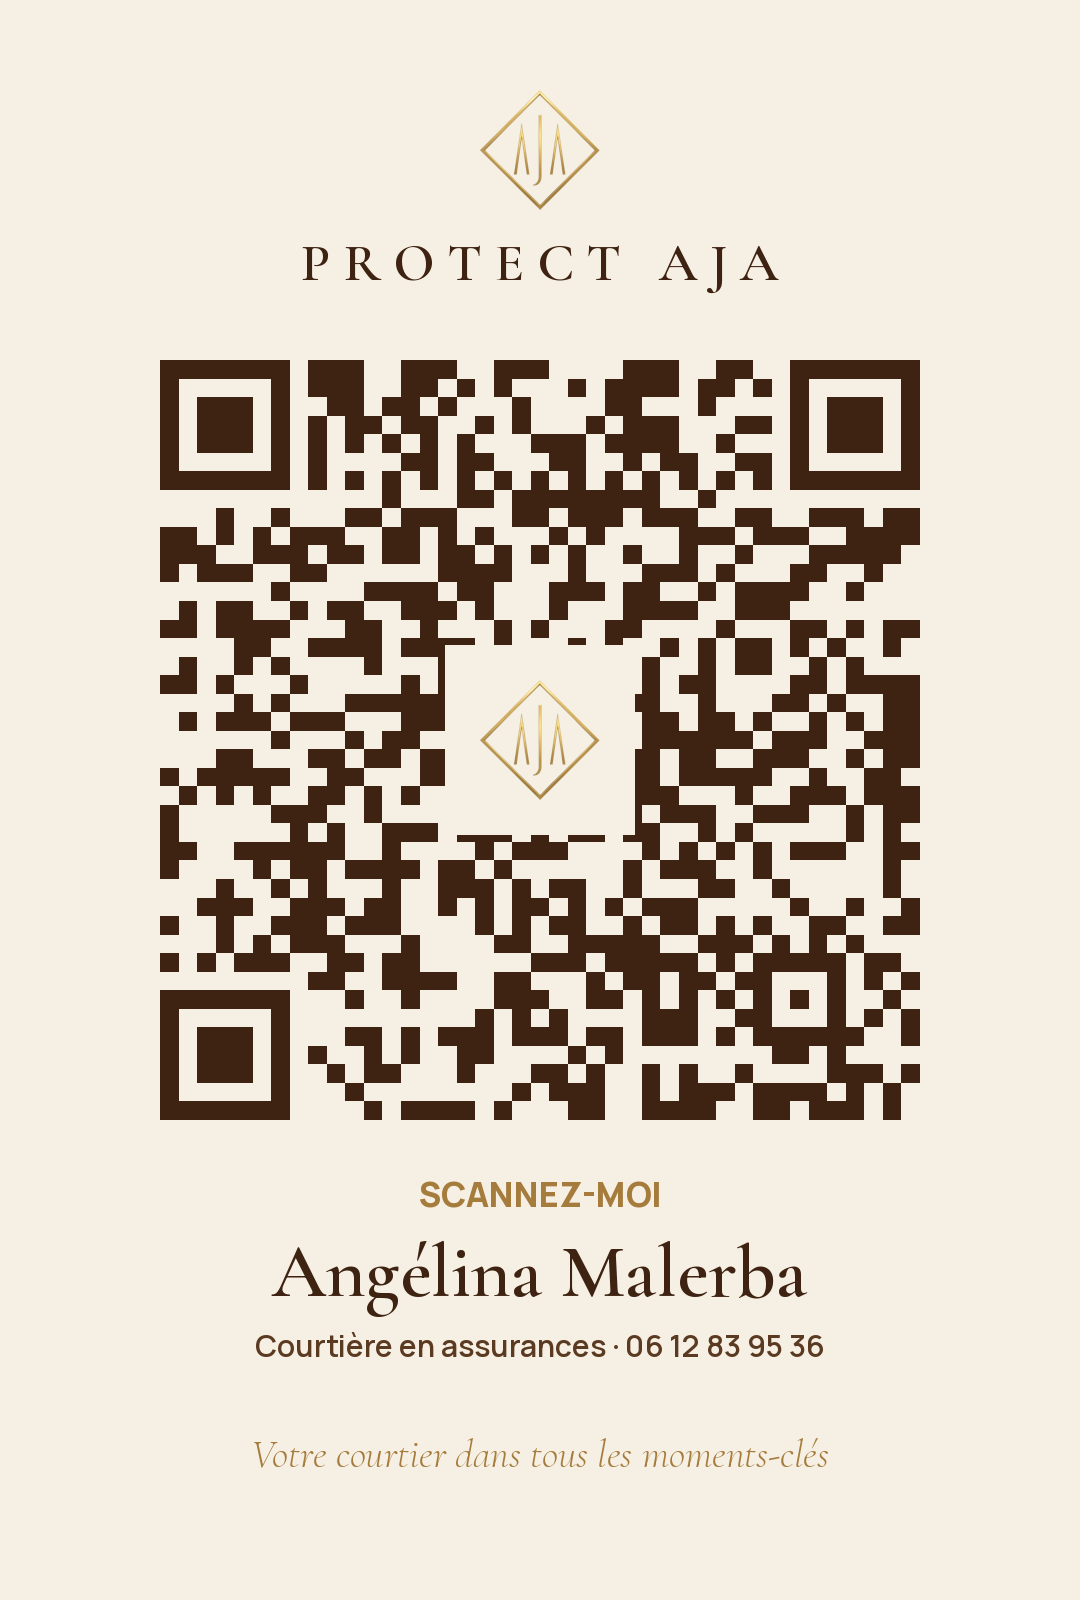
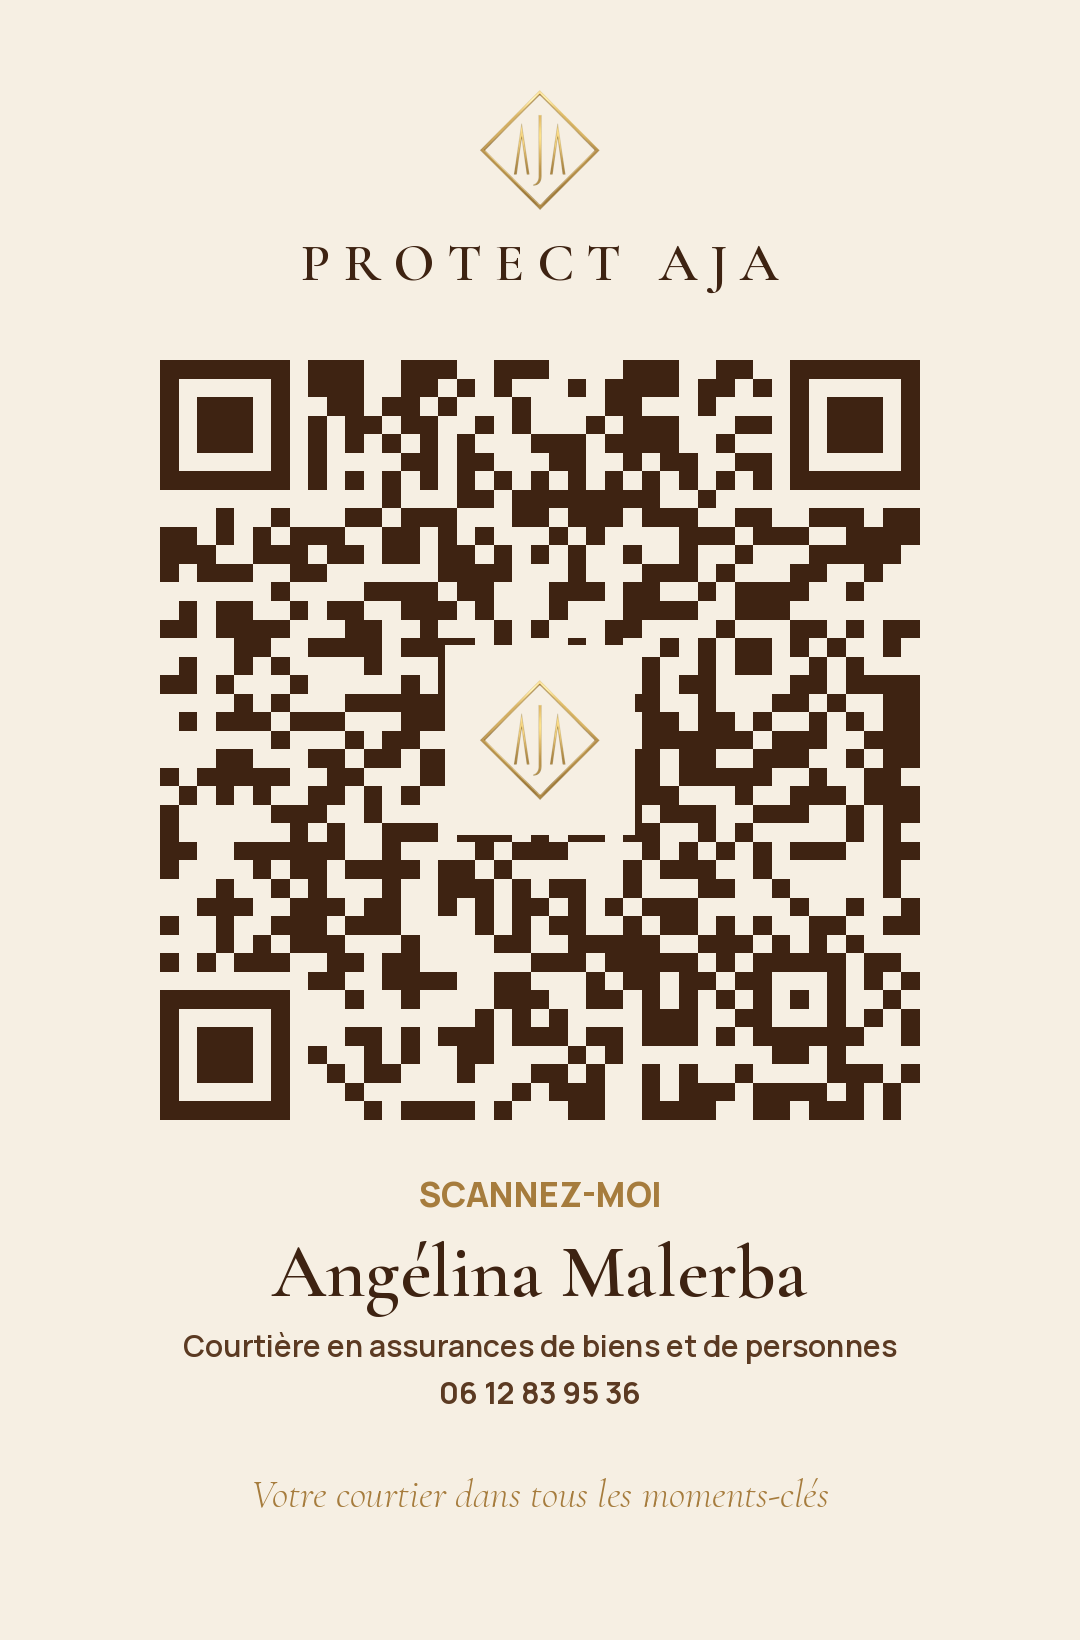
Carte : courtière en assurances de biens et de personnes
Claude-Session: https://claude.ai/code/session_01VdopxgVWhM6GLgGm1oL3gh

diff --git a/carte/index.html b/carte/index.html
@@ -54,7 +54,7 @@ button { font: inherit; color: inherit; background: none; border: 0; cursor: poi
 @keyframes pulse { 50% { transform: translate(-50%, -50%) scale(1.08); opacity: .8; } }
 .hero img { position: absolute; left: 50%; bottom: 0; height: 372px; transform: translateX(-50%); -webkit-mask-image: linear-gradient(to bottom, #000 60%, transparent 97%); mask-image: linear-gradient(to bottom, #000 60%, transparent 97%); }
 .who { text-align: center; margin-top: -34px; position: relative; }
-.chip { display: inline-flex; align-items: center; gap: 8px; padding: 7px 14px; border-radius: 999px; background: var(--glass); border: 1px solid var(--stroke); backdrop-filter: blur(14px); -webkit-backdrop-filter: blur(14px); font: 700 11.5px 'Manrope'; letter-spacing: .08em; color: var(--gold2); }
+.chip { display: inline-flex; align-items: center; gap: 8px; padding: 7px 14px; border-radius: 999px; background: var(--glass); border: 1px solid var(--stroke); backdrop-filter: blur(14px); -webkit-backdrop-filter: blur(14px); font: 700 11px 'Manrope'; letter-spacing: .01em; color: var(--gold2); white-space: nowrap; max-width: 100%; }
 .chip svg { width: 14px; height: 14px; }
 h1 { margin-top: 14px; font: 800 36px/1.02 'Manrope'; letter-spacing: -.035em; }
 h1 em { font: italic 600 42px 'Cormorant', serif; letter-spacing: -.01em; background: linear-gradient(100deg, var(--goldd), var(--gold2) 45%, var(--gold)); -webkit-background-clip: text; background-clip: text; color: transparent; }
@@ -148,7 +148,7 @@ svg.s { fill: none; stroke: currentColor; stroke-width: 1.8; stroke-linecap: rou
 
   <section class="hero rise" style="animation-delay:.08s"><div class="halo"></div><img src="portrait.webp" alt="Angélina Malerba"></section>
   <div class="who rise" style="animation-delay:.16s">
-    <div class="chip"><svg class="s" viewBox="0 0 24 24"><path d="M20 13c0 5-3.5 7.5-7.66 8.95a1 1 0 0 1-.67-.01C7.5 20.5 4 18 4 13V6a1 1 0 0 1 1-1c2 0 4.5-1.2 6.24-2.72a1.17 1.17 0 0 1 1.52 0C14.51 3.81 17 5 19 5a1 1 0 0 1 1 1z"/><path d="m9 12 2 2 4-4"/></svg>Courtière en assurances</div>
+    <div class="chip"><svg class="s" viewBox="0 0 24 24"><path d="M20 13c0 5-3.5 7.5-7.66 8.95a1 1 0 0 1-.67-.01C7.5 20.5 4 18 4 13V6a1 1 0 0 1 1-1c2 0 4.5-1.2 6.24-2.72a1.17 1.17 0 0 1 1.52 0C14.51 3.81 17 5 19 5a1 1 0 0 1 1 1z"/><path d="m9 12 2 2 4-4"/></svg>Courtière en assurances de biens et de personnes</div>
     <h1>Angélina <em>Malerba</em></h1>
     <p class="tag">Particuliers &amp; pros · Béziers et toute la France</p>
   </div>
